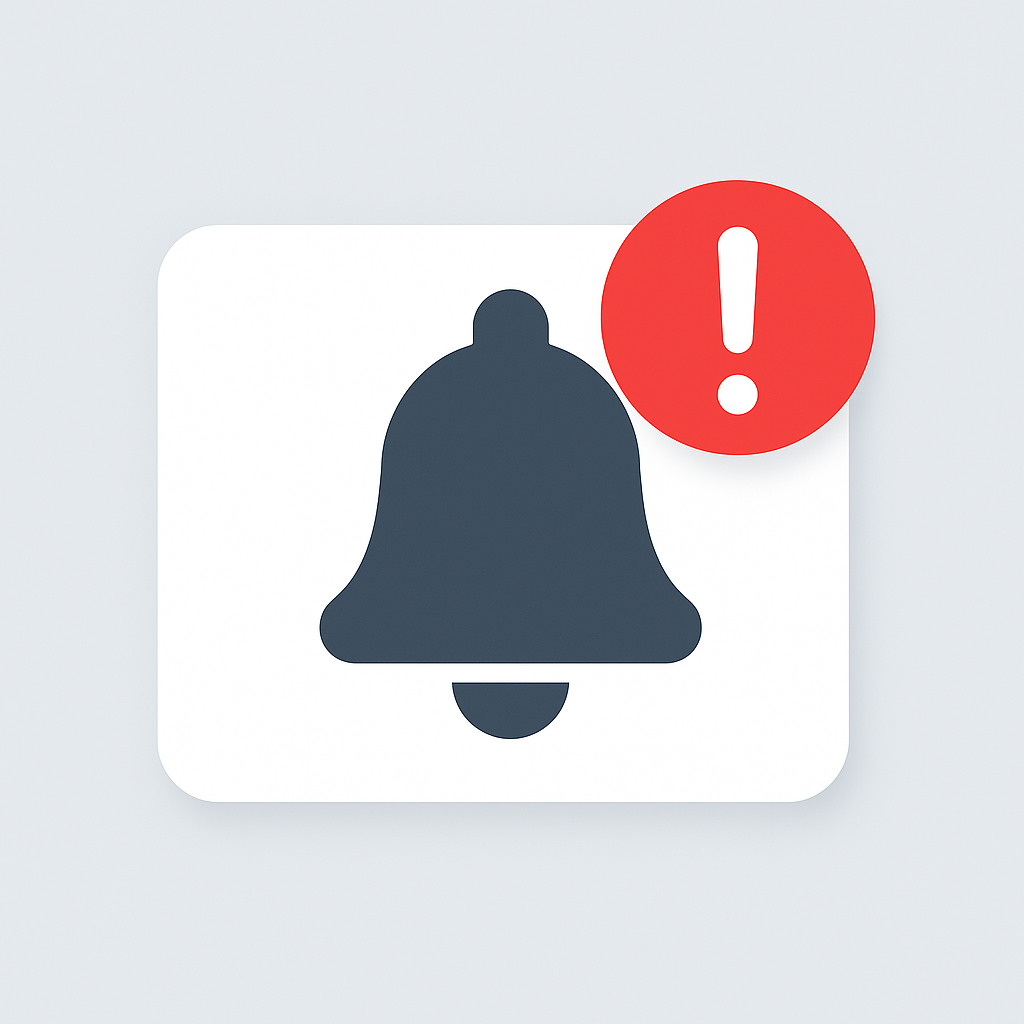
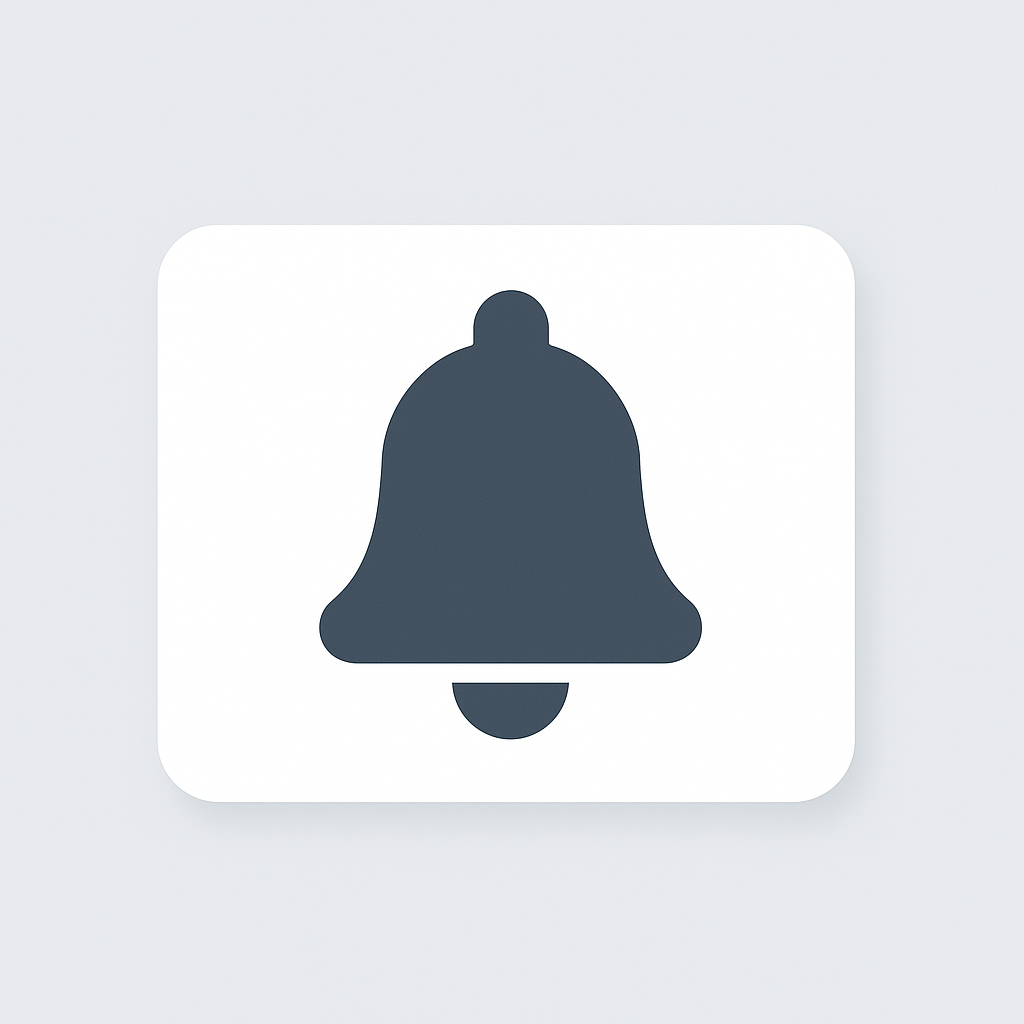
fix bug in notification_popup and replace leftover print's in mpris and playerctlservice and change default notification image

Changed region(s): [[0.5625, 0.1562, 0.875, 0.7812]]

diff --git a/styles/colors.css b/styles/colors.css
@@ -1,21 +1,21 @@
 
-@define-color cursor #E5E7ED;
-@define-color background #000004;
-@define-color foreground #E5E7ED;
-@define-color color0  #07070C;
-@define-color color1  #71747F;
-@define-color color2  #9B6A70;
-@define-color color3  #B17399;
-@define-color color4  #DD6066;
-@define-color color5  #AD95A0;
-@define-color color6  #B6B9CB;
-@define-color color7  #D2D4DD;
-@define-color color8  #93949A;
-@define-color color9  #71747F;
-@define-color color10 #9B6A70;
-@define-color color11 #B17399;
-@define-color color12 #DD6066;
-@define-color color13 #AD95A0;
-@define-color color14 #B6B9CB;
-@define-color color15 #D2D4DD;
-@define-color backgroundWaybar rgba(0,0,4,0.65);
+@define-color cursor #F0F0E0;
+@define-color background #2A2828;
+@define-color foreground #F0F0E0;
+@define-color color0  #555453;
+@define-color color1  #547982;
+@define-color color2  #AE8B69;
+@define-color color3  #729AA1;
+@define-color color4  #B7A65E;
+@define-color color5  #C5CFC8;
+@define-color color6  #D5D4A7;
+@define-color color7  #E2E1CB;
+@define-color color8  #9E9E8E;
+@define-color color9  #547982;
+@define-color color10 #AE8B69;
+@define-color color11 #729AA1;
+@define-color color12 #B7A65E;
+@define-color color13 #C5CFC8;
+@define-color color14 #D5D4A7;
+@define-color color15 #E2E1CB;
+@define-color backgroundWaybar rgba(42,40,40,0.65);

diff --git a/modules/notification/notification_popup.py b/modules/notification/notification_popup.py
@@ -1,7 +1,7 @@
 """contains notification Popups widget and the window that it belongs to"""
 
-from os import path
-
+import os
+from venv import logger
 from fabric.widgets.box import Box
 from fabric.widgets.label import Label
 from fabric.widgets.button import Button
@@ -174,9 +174,10 @@ class NotificationPopup(Box):
                 loader.close()
                 return pixbuf_cropping_if_image_is_not_1_1(loader.get_pixbuf())
 
-            if getattr(notification, "image_path", None) and path.exists(
+            if getattr(notification, "image_path", None) and os.path.exists(
                 notification.image_path
             ):
+                logger.info("trying to find image in path")
                 return pixbuf_cropping_if_image_is_not_1_1(
                     GdkPixbuf.Pixbuf.new_from_file_at_scale(
                         notification.image_path,
@@ -189,18 +190,20 @@ class NotificationPopup(Box):
             if getattr(notification, "app_icon", None):
                 app_icon = notification.app_icon
                 # Try as file path first
-                if path.exists(app_icon):
+                if os.path.exists(app_icon):
                     return GdkPixbuf.Pixbuf.new_from_file_at_scale(
                         app_icon,
                         NOTIFICATION_IMAGE_SIZE,
                         NOTIFICATION_IMAGE_SIZE,
                         True,
                     )
+                logger.info("trying to find icon in theme")
                 # Otherwise, try from icon theme
                 theme = Gtk.IconTheme.get_default()
                 info = theme.lookup_icon(app_icon, NOTIFICATION_IMAGE_SIZE, 0)
                 if info:
-                    return info.load_icon()
+                    icon_pixbuf = info.load_icon()
+                    return pixbuf_cropping_if_image_is_not_1_1(icon_pixbuf)
         except Exception as e:
             print(f"Failed to load notification icon: {e}")
         if path := APP_ICON_MAP.get(self._notification.app_name.lower()):

diff --git a/modules/network/network.py b/modules/network/network.py
@@ -230,7 +230,7 @@ class NetworkWidget(Box):
             self.saved_connections.extend(saved_ssids)
 
         except Exception as e:
-            print(f"Failed to parse connections: {e}")
+            logger.exception(f"Failed to parse connections: {e}")
 
     def _on_connections_received(self):
         self._populate_networks_ui()
@@ -244,7 +244,7 @@ class NetworkWidget(Box):
                 self._on_connections_complete,
             )
         except Exception as e:
-            print(f"Failed to get connections async: {e}")
+            logger.exception(f"Failed to get connections async: {e}")
             self._on_connections_received()
 
     def _create_network_containers(self):
@@ -263,7 +263,7 @@ class NetworkWidget(Box):
                 )
                 # Add password entry if network is secured and not saved
                 # print(ssid,is_saved)
-                print(self.saved_connections)
+                logger.debug(self.saved_connections)
                 if not is_saved:
                     self._add_password_entry_box(
                         ssid, is_secure, network_container, network_button
@@ -401,6 +401,7 @@ class NetworkWidget(Box):
 
     def _connection_attempt_callback(self, output) -> bool:
         if "successfully" in output:
+            exec_shell_command_async(f"notify-send \"Network Updated\" \"Successfully connected to {self._wifi_device.ssid}\"")
             GLib.idle_add(self.networks_popup.set_visible, False)
             return True
         return False

diff --git a/services/playerctlservice.py b/services/playerctlservice.py
@@ -50,7 +50,7 @@ class SimplePlayerctlService(Service):
 
     def _on_player_appeared(self, manager, name):
         """Handle new player"""
-        print(f"add_player {name.name}")
+        logger.info(f"adding_player {name.name}")
 
         if name.name not in self.players:
             try:
@@ -81,7 +81,7 @@ class SimplePlayerctlService(Service):
 
     def _on_player_vanished(self, manager, player):
         """Handle player disappearing"""
-        print(f"player {player.name} vanished")
+        logger.info(f"player {player.name} vanished")
 
         player_name = player.name
         if player_name in self.players.keys():
@@ -100,7 +100,6 @@ class SimplePlayerctlService(Service):
         if len(self.players.keys()) == 0:
             return None
         if player_name is None:
-            print(self.players)
             player_name = list(self.players.keys())[0]
 
         if player_name not in self.players:
